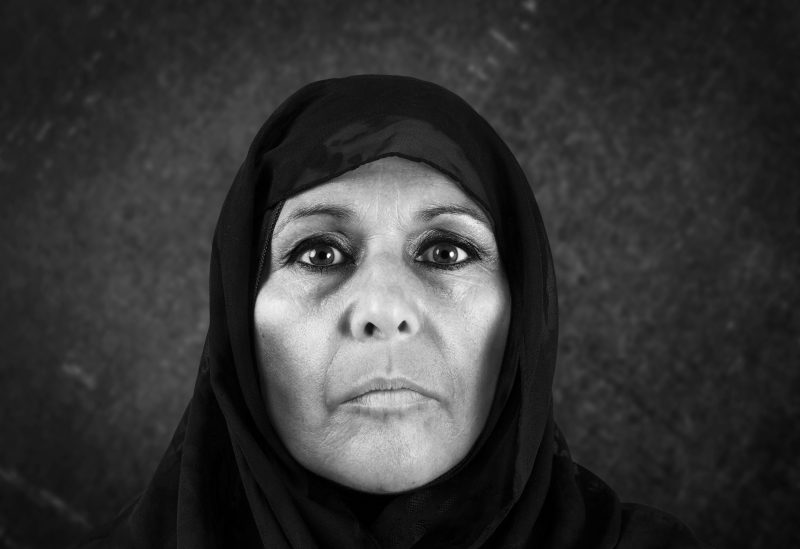
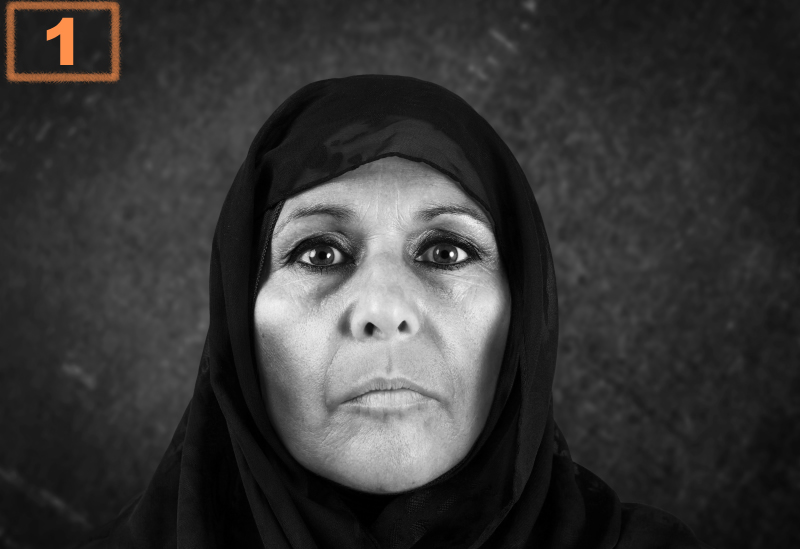
Add image's numbers

Changed region(s): [[0.0, 0.0, 0.1562, 0.1548]]

diff --git a/css/style.css b/css/style.css
@@ -43,3 +43,7 @@ h1,h3,h4,p {
   background-size: contain;  
   background-blend-mode:overlay;
 }
+
+#question{
+  background-color: #FF914D;
+}
